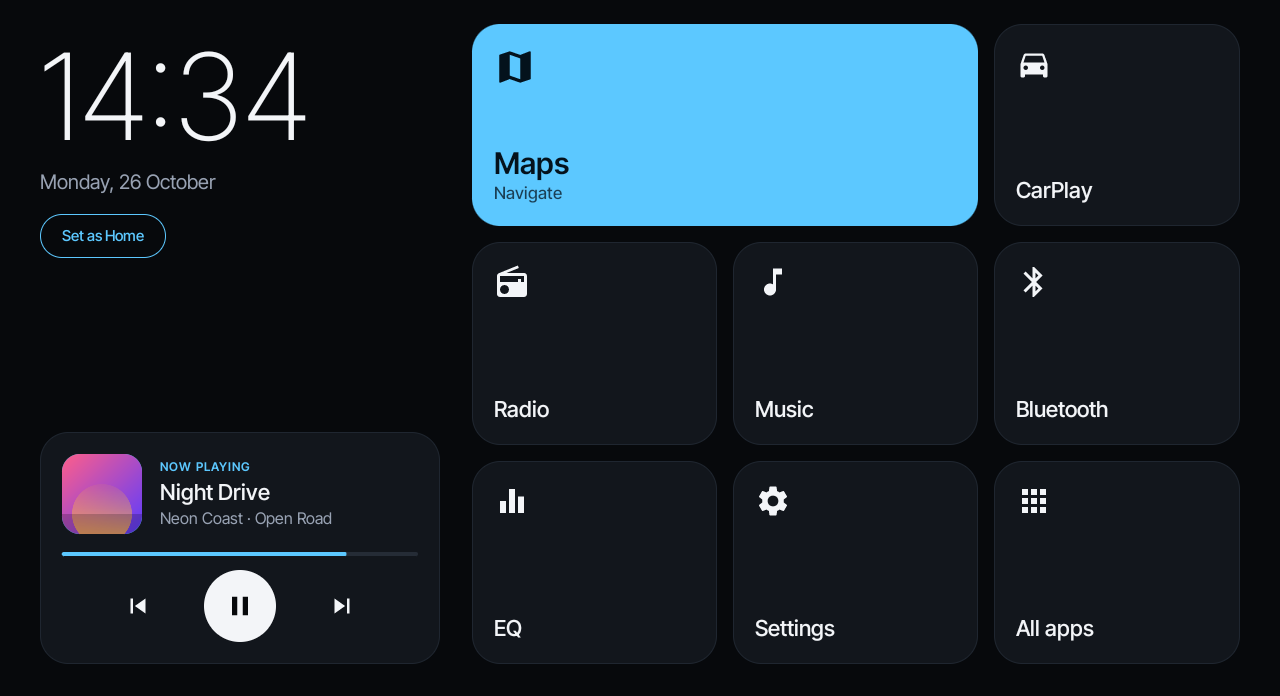
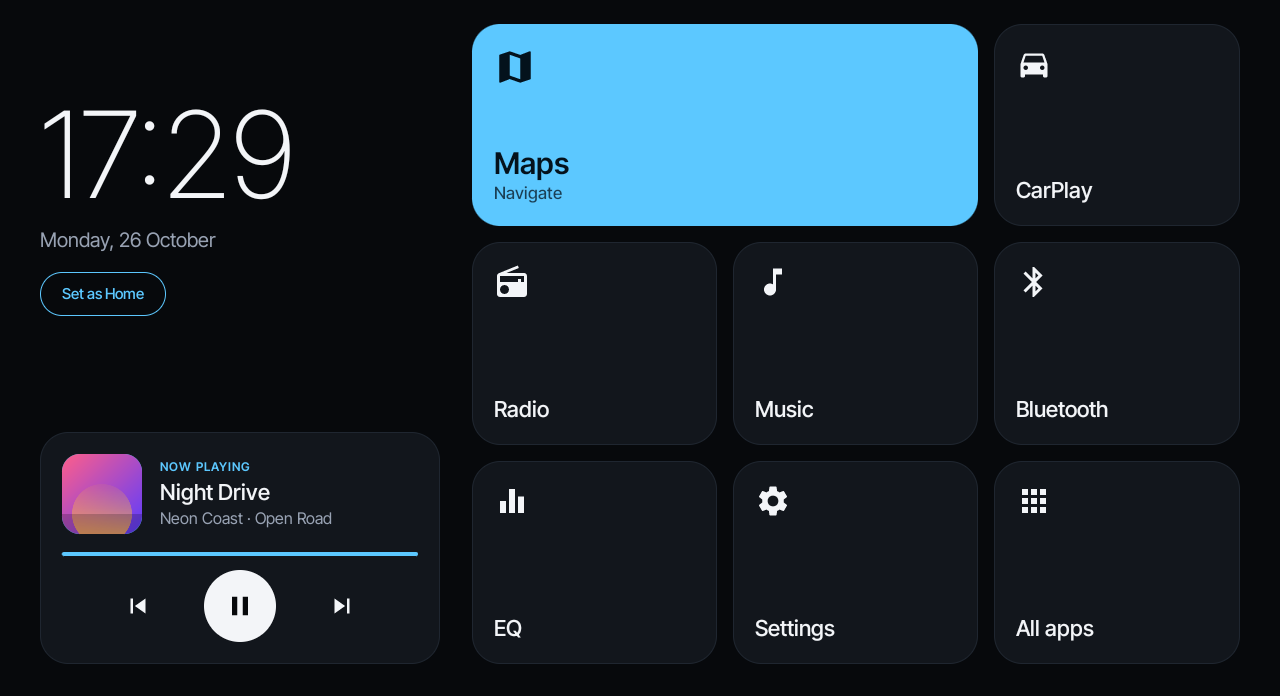
Centre the clock in Glass, Instrument and Driver Rail; list supported resolutions
The clock was pinned to the top corner with a large empty gap under it. Glass now
places it a third of the way down to the player; Instrument centres the clock and
media panel together above the keys; Driver Rail centres the clock row above the
cards. Checked at 1024×600, 1280×720, 1920×720 and 2000×1200.

Both READMEs get a table of common head unit resolutions and their status, and
fresh screenshots of the three themes.

diff --git a/README.md b/README.md
@@ -53,8 +53,22 @@ Six looks, switched by holding the clock → *Theme*:
 - **Night Halo:** near-black for night driving, with four round keys down each edge where a thumb finds them.
 - **Color Cards:** one colour per app, in two rows of big cards, with the clock and a mini player on top.
 
-Every theme is laid out for landscape screens from 1024×600 up: checked at 1024×600, 1280×720, 1920×720 and
-2000×1200. Portrait ("Tesla-style") screens aren't supported yet.
+### Supported screen sizes
+
+Every theme is laid out for landscape screens from 1024×600 up. These are the common head unit screens and how
+CleanDash has been checked on them:
+
+| Resolution | Typical head units | Status |
+|---|---|---|
+| **1024×600** | The cheapest and most common 7–10" units | All six themes checked on the emulator |
+| **1280×720** | Mid-range 9–10" units such as the Topway TS10/TS18 | All six themes checked; runs on a real TS18 |
+| **1920×720** | 12.3" wide "bar" screens | All six themes checked on the emulator |
+| **2000×1200** (2K) | Newer high-end 9–13" units | All six themes checked on the emulator (240 dpi) |
+| **800×480** | Old or very cheap units | Not supported, too small for these layouts |
+| Portrait (e.g. 1080×1920) | "Tesla-style" vertical screens | Not supported yet |
+
+Other landscape sizes in between, such as 1280×800, should work, since the layouts stretch to fit. If yours
+doesn't look right, open a "Support my head unit" issue with a screenshot.
 
 Everything else works the same in every theme:
 

diff --git a/README.zh-CN.md b/README.zh-CN.md
@@ -51,7 +51,20 @@
 - **Night Halo：** 接近纯黑，适合夜间驾驶。左右两侧各四个圆形按键，拇指不用看也能摸到。
 - **Color Cards：** 每个应用一种颜色，两排大卡片，顶部是时钟和迷你播放器。
 
-每个主题都适配 1024×600 及以上的横屏：已在 1024×600、1280×720、1920×720 和 2000×1200 上检查过。暂不支持竖屏（"特斯拉式"）车机。
+### 支持的屏幕分辨率
+
+每个主题都适配 1024×600 及以上的横屏。下表是常见车机屏幕的分辨率，以及 CleanDash 在上面的检查情况：
+
+| 分辨率 | 常见车机 | 状态 |
+|---|---|---|
+| **1024×600** | 最便宜、最常见的 7–10 寸车机 | 六个主题都已在模拟器上检查 |
+| **1280×720** | 中档 9–10 寸车机，例如 Topway TS10/TS18 | 六个主题都已检查；已在真实 TS18 上运行 |
+| **1920×720** | 12.3 寸宽长条屏 | 六个主题都已在模拟器上检查 |
+| **2000×1200**（2K） | 较新的高端 9–13 寸车机 | 六个主题都已在模拟器上检查（240 dpi） |
+| **800×480** | 老款或非常便宜的车机 | 不支持，屏幕太小放不下这些布局 |
+| 竖屏（例如 1080×1920） | "特斯拉式"竖屏车机 | 暂不支持 |
+
+介于其间的其他横屏分辨率（例如 1280×800）应该也能用，因为布局会自动拉伸填满屏幕。如果你的车机显示不正常，请提交"Support my head unit"（适配我的车机）issue 并附上截图。
 
 以下功能在每个主题里都一样：
 
